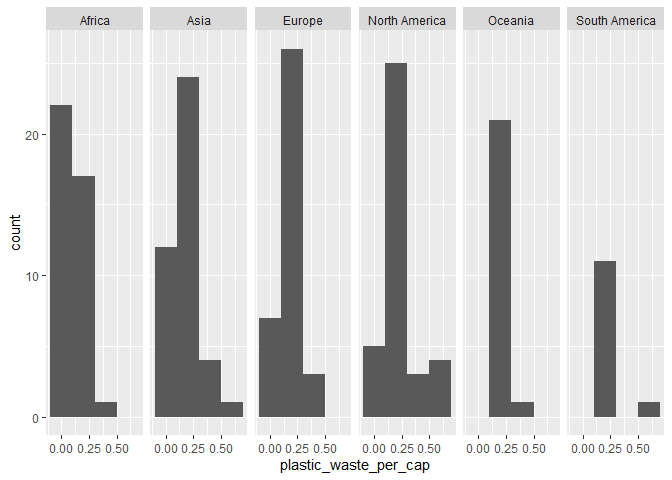
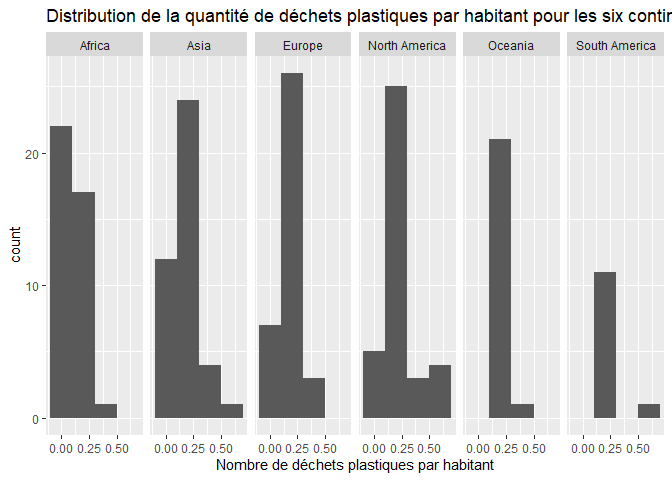
Mise à jour de la présentation des graphiques

diff --git a/lab-02.md b/lab-02.md
@@ -28,7 +28,8 @@ plastic_waste <- plastic_waste %>%
 ``` r
 ggplot(plastic_waste, aes(x = plastic_waste_per_cap)) +
   geom_histogram (binwidth = 0.2) +
-  facet_grid (~ continent)
+  facet_grid (~ continent) +
+  labs(title = "Distribution de la quantité de déchets plastiques par habitant pour les six continents", x = "Nombre de déchets plastiques par habitant")
 ```
 
 ![](lab-02_files/figure-gfm/plastic-waste-continent-1.png)<!-- -->
@@ -42,7 +43,8 @@ habitant la moins élevée de l’histogramme.
 
 ``` r
 ggplot(plastic_waste, aes(x = plastic_waste_per_cap, fill = continent, color = continent)) +
- geom_density(alpha = 0.5)
+ geom_density(alpha = 0.5) +
+  labs(title = "Densité de la quantité de déchets plastiques par habitant", subtitle = "Selon le continent", x = "Nombre de déchets plastiques par habitant", y = "Densité")
 ```
 
 ![](lab-02_files/figure-gfm/plastic-waste-density-1.png)<!-- -->
@@ -61,7 +63,8 @@ Boxplot:
 
 ``` r
 ggplot(plastic_waste, aes(x = continent, y = plastic_waste_per_cap)) +
-  geom_boxplot()
+  geom_boxplot() +
+  labs(title = "Quantité de déchets plastiques par habitant vs Continent", x = "Continent", y = "Nombre de déchets plastiques par habitant")
 ```
 
 ![](lab-02_files/figure-gfm/plastic-waste-boxplot-1.png)<!-- -->
@@ -70,7 +73,8 @@ Violin plot:
 
 ``` r
 ggplot(plastic_waste, aes(x = continent, y = plastic_waste_per_cap))+
-  geom_violin()
+  geom_violin() +
+  labs(title = "Quantité de déchets plastiques par habitant vs Continent", x = "Continent", y = "Nombre de déchets plastiques par habitant")
 ```
 
 ![](lab-02_files/figure-gfm/plastic-waste-violin-1.png)<!-- -->
@@ -83,7 +87,8 @@ boxplot.
 
 ``` r
 ggplot(plastic_waste, aes(x = plastic_waste_per_cap, y = mismanaged_plastic_waste_per_cap, color = continent)) +
-  geom_point()
+  geom_point() +
+  labs(title = "Relation entre la quantité de déchets plastiques par habitant et la quantité de déchets non gérés par habitants", subtitle = "Selon le continent", x = "Nombre de déchets plastiques par habitant", y = "Nombre de déchets non gérés par habitant", color = "Continent")
 ```
 
 ![](lab-02_files/figure-gfm/plastic-waste-mismanaged-1.png)<!-- -->
@@ -98,7 +103,8 @@ gérer.
 
 ``` r
 ggplot(plastic_waste, aes(x = plastic_waste_per_cap, y = total_pop)) +
-  geom_point()
+  geom_point() +
+  labs(title = "Relation entre la quantité de déchets plastiques par habitant et le nombre total d'habitants", x = "Nombre de déchets plastiques par habitant", y = "Nombre total d'habitants")
 ```
 
     ## Warning: Removed 10 rows containing missing values or values outside the scale range
@@ -108,7 +114,8 @@ ggplot(plastic_waste, aes(x = plastic_waste_per_cap, y = total_pop)) +
 
 ``` r
 ggplot(plastic_waste, aes(x = plastic_waste_per_cap, y = coastal_pop)) +
-  geom_point()
+  geom_point() +
+  labs(title = "Relation entre la quantité de déchets plastiques par habitant et le nombre total d'habitants vivant près d'une côte", x = "Quantité de déchets plastiques par habitant", y = "Nombre total d'habitants vivant près d'une côte")
 ```
 
 ![](lab-02_files/figure-gfm/plastic-waste-population-coastal-1.png)<!-- -->
